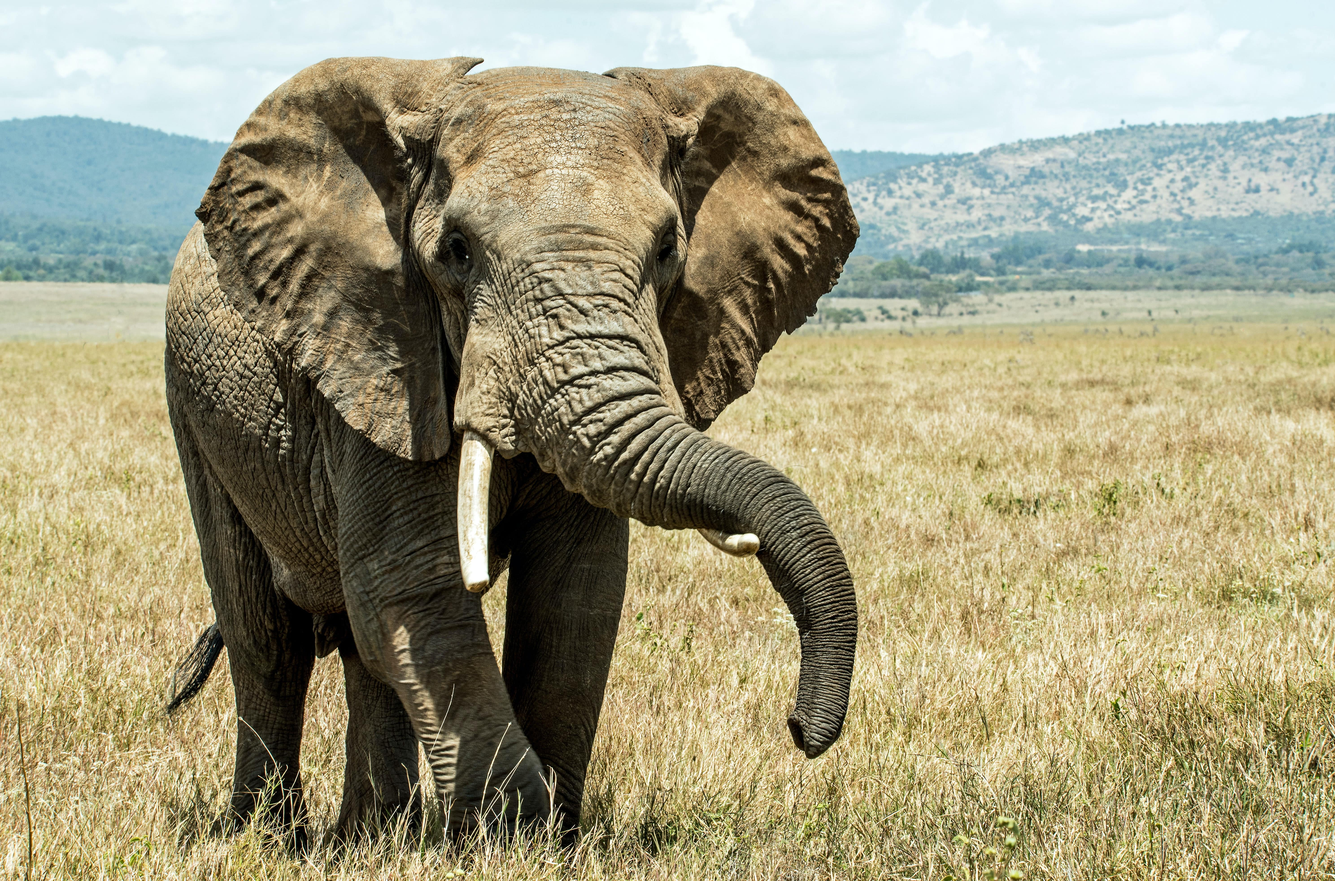
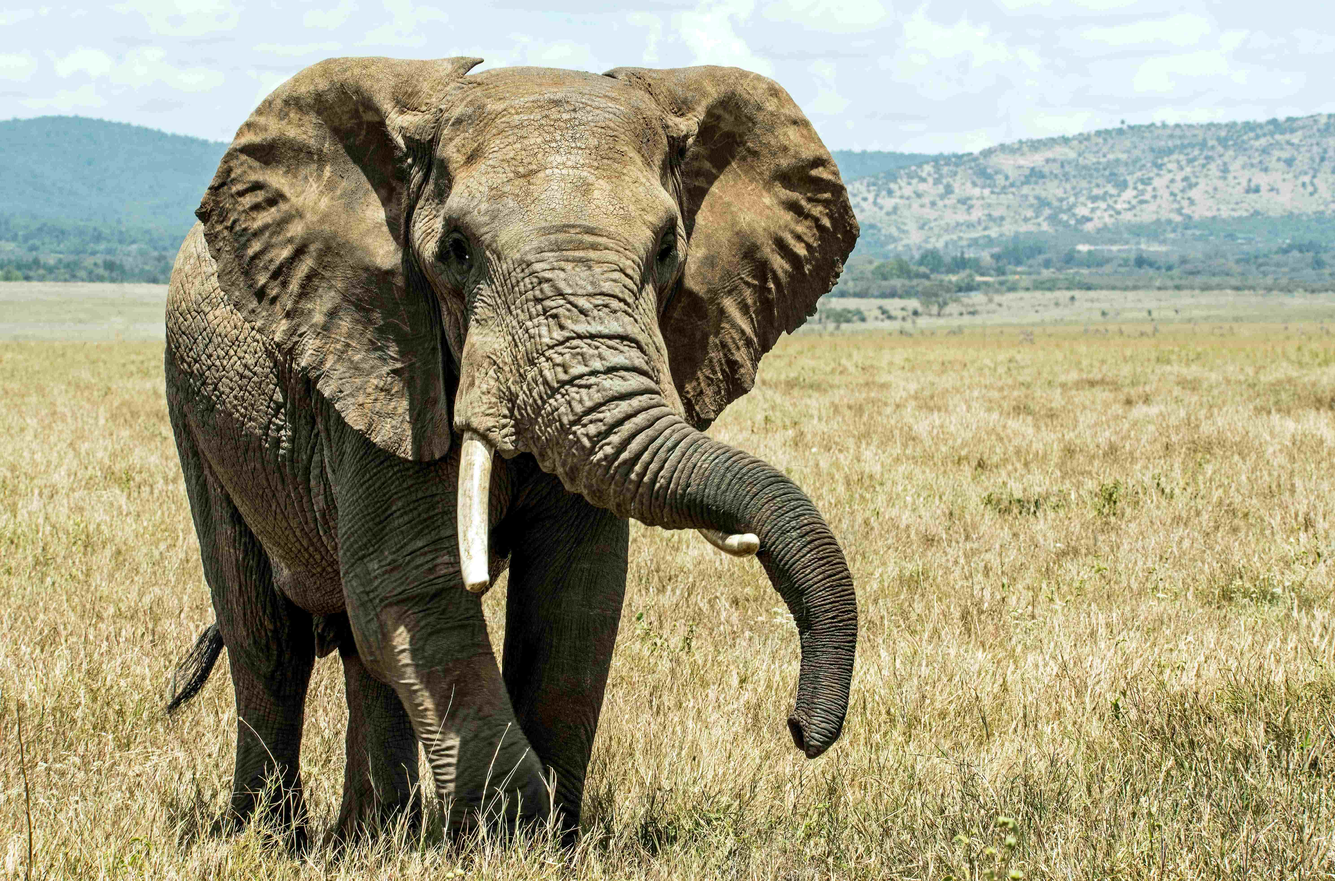
meta données + modification de la taille d'image + compressoin de main_Home + ajout d'une balise main

diff --git a/index.html b/index.html
@@ -1,5 +1,5 @@
 <!DOCTYPE html>
-<html>
+<html lang="fr">
 <head>
 <title>W3.CSS Template</title>
 <meta charset="UTF-8">
@@ -15,49 +15,50 @@
 </head>
 <body>
 
-<div class="w3-display-container" style="margin-bottom:50px">
-  <img src="img/main_HOME-min.jpg" style="width:10px" alt="">
-  <div class="w3-display-bottomleft w3-container w3-amber w3-hover-orange w3-hide-small"
-   style="bottom:10%;opacity:0.7;width:70%">
-  <h2><b>Travel Agency (Demo Website)</b></h2>
-  </div>
-</div>
-
-<div class="w3-row w3-container" style="margin:50px 0">
-<div class="w3-half w3-container">
-  <div class="w3-topbar w3-border-amber">
-    <img src="img/cellphone-min.jpg" style="width:50%" alt="">
-    <h2>Smart Vacation</h2>
-    <p>Full vacation control from your cell phone.</p>
-  </div>
-</div>
-
-<div class="w3-half w3-container">
-  <div class="w3-topbar w3-border-amber">
-    <img src="img/sealions-min.jpg" style="width:50%" alt="">
-    <h2>Super Offers</h2>
-    <p>Up to 50% offers. Always 25% student offers.</p>
-  </div>
-</div>
-</div>
-
-<div class="w3-row w3-container" style="margin:50px 0">
-<div class="w3-half w3-container">
-  <div class="w3-topbar w3-border-orange">
-    <img src="img/truck-min.jpg" style="width:50%" alt="">
-    <h2>Car Rental Included</h2>
-    <p>Wherever you travel our car rental is included.</p>
-  </div>
-</div>
-
-<div class="w3-half w3-container">
-  <div class="w3-topbar w3-border-orange">
-    <img src="img/nowornever-min.jpg" style="width:50%" alt="">
-    <h2>Realize Your Dreams</h2>
-    <p>Don't wait until it is to late.</p>
+<main>  
+  <div class="w3-display-container" style="margin-bottom:50px">
+    <img src="img/main_HOME-min.jpg" style="width:100%" alt="">
+    <div class="w3-display-bottomleft w3-container w3-amber w3-hover-orange w3-hide-small"
+      style="bottom:10%;opacity:0.7;width:70%">
+      <h2><b>Travel Agency (Demo Website)</b></h2>
     </div>
-</div>
-</div>
+  </div>
 
+  <div class="w3-row w3-container" style="margin:50px 0">
+    <div class="w3-half w3-container">
+      <div class="w3-topbar w3-border-amber">
+        <img src="img/cellphone-min.jpg" style="width:50%" alt="">
+        <h2>Smart Vacation</h2>
+        <p>Full vacation control from your cell phone.</p>
+      </div>
+    </div>
+
+    <div class="w3-half w3-container">
+      <div class="w3-topbar w3-border-amber">
+        <img src="img/sealions-min.jpg" style="width:50%" alt="">
+        <h2>Super Offers</h2>
+        <p>Up to 50% offers. Always 25% student offers.</p>
+      </div>
+      </div>
+  </div>
+
+  <div class="w3-row w3-container" style="margin:50px 0">
+    <div class="w3-half w3-container">
+      <div class="w3-topbar w3-border-orange">
+        <img src="img/truck-min.jpg" style="width:50%" alt="">
+        <h2>Car Rental Included</h2>
+        <p>Wherever you travel our car rental is included.</p>
+      </div>
+    </div>
+
+    <div class="w3-half w3-container">
+      <div class="w3-topbar w3-border-orange">
+      <img src="img/nowornever-min.jpg" style="width:50%" alt="">
+      <h2>Realize Your Dreams</h2>
+      <p>Don't wait until it is to late.</p>
+      </div>
+    </div>
+  </div>
+</main>
 </body>
 </html>
